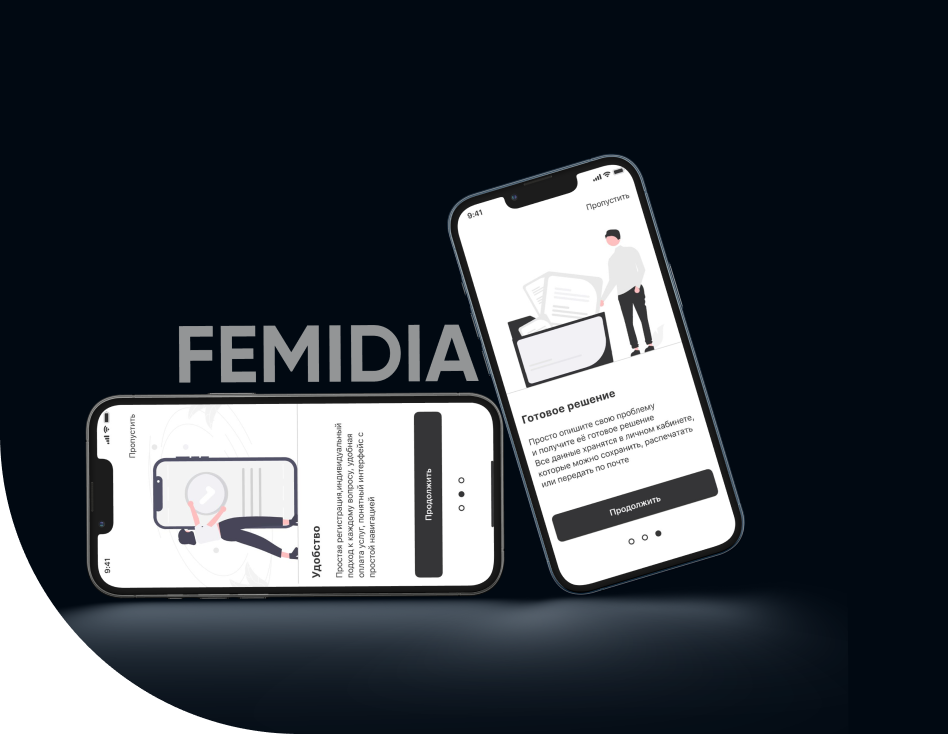
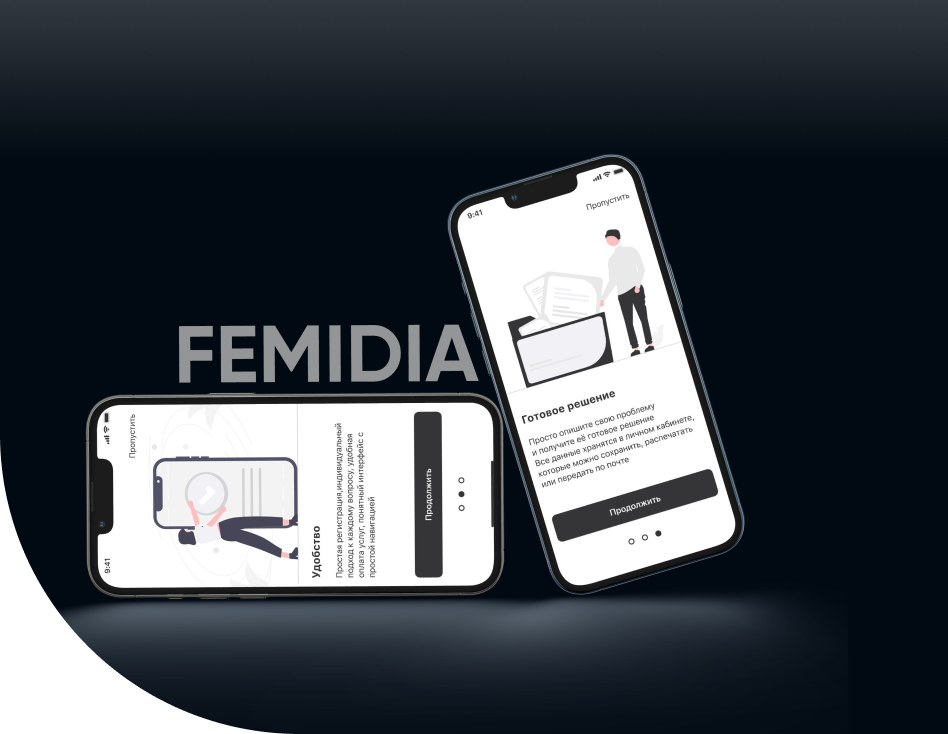
fix: project intro

Changed region(s): [[0.0, 0.0, 1.0, 0.1199]]

diff --git a/src/sass/style.scss b/src/sass/style.scss
@@ -66,6 +66,7 @@
 
 @import 'portfolio/portfolio-intro';
 
+@import 'project/project-intro';
 @import 'project/project-about';
 @import 'project/project-stack';
 @import 'project/project-feature';

diff --git a/src/sass/project/project-intro.scss b/src/sass/project/project-intro.scss
@@ -1,0 +1,5 @@
+.project-intro {
+  &__img {
+    background-position: -45px center;
+  }
+}
